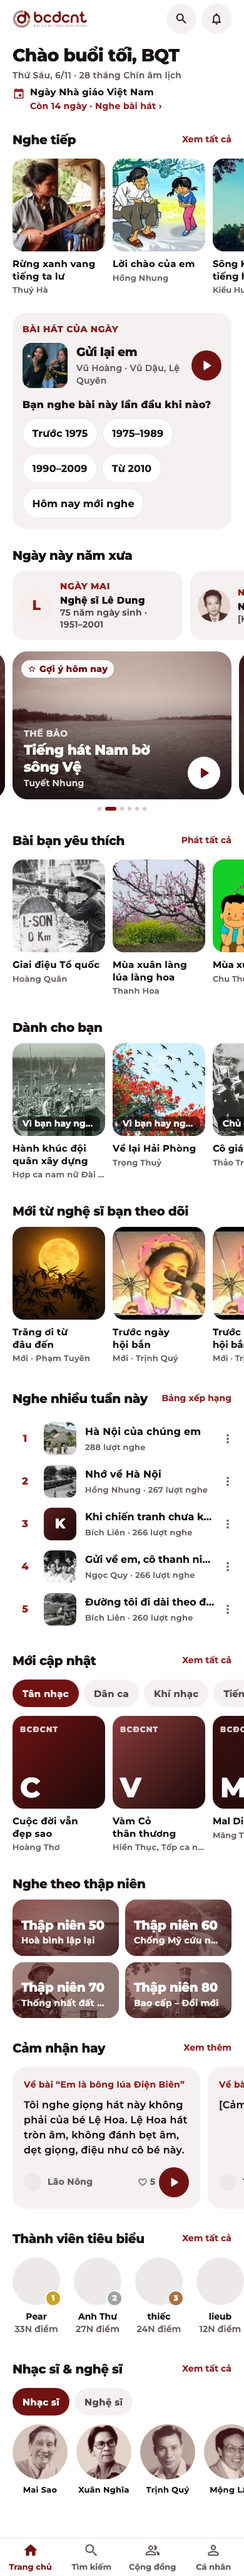
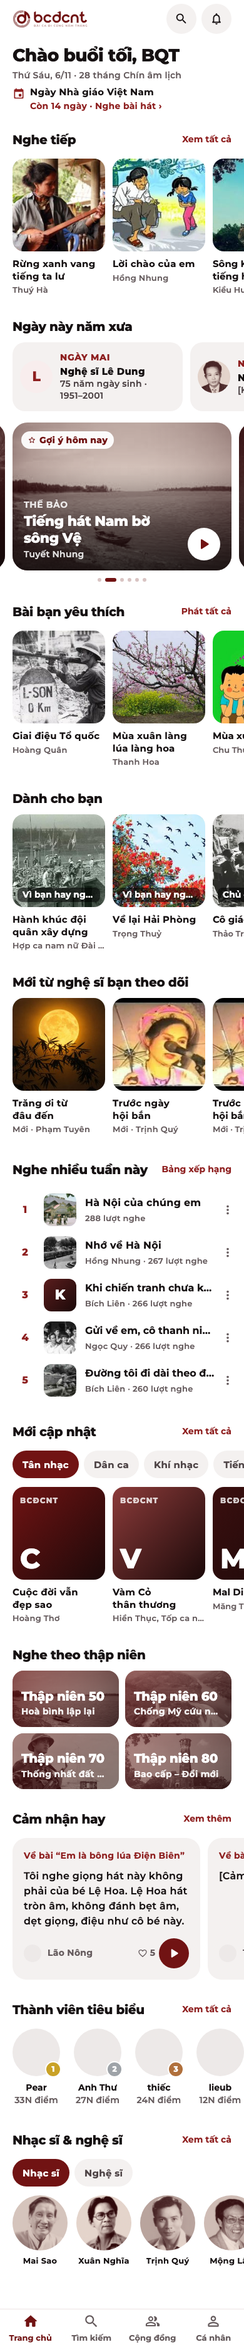
feat(app): bỏ hẳn "Bài hát của ngày"
- Trang chủ: xoá thẻ Bài hát của ngày (câu hỏi trắc nghiệm giống nhau cho mọi bài, 2 lượt trả lời trên 184 câu hỏi)
- Thông báo: bỏ topic daily_song và công tắc trong Cài đặt; máy đã đăng ký được huỷ đăng ký một lần
- Canvas: Trang chủ không còn thẻ (bản 20)

diff --git a/design/canvas/project/Main.dc.html b/design/canvas/project/Main.dc.html
@@ -11,7 +11,7 @@
 <link href="https://fonts.googleapis.com/css2?family=Montserrat:wght@500;600;700;800&amp;display=swap" rel="stylesheet">
 <style>body{margin:0}a{color:#8E1F1F;text-decoration:none}</style>
 </helmet>
-<div style="width: 390px; height: 4109px; background: #FFFFFF; font-family: Montserrat, sans-serif; line-height: 1.22; color: #161112; display: flex; flex-direction: column; overflow: hidden">
+<div style="width: 390px; height: 3744px; background: #FFFFFF; font-family: Montserrat, sans-serif; line-height: 1.22; color: #161112; display: flex; flex-direction: column; overflow: hidden">
 <!-- BrandTint duotone (lib/widgets/ui.dart): dark #2E080A -> light #F6E8DE by luminance -->
 <svg width="0" height="0" aria-hidden="true" style="position: absolute"><filter id="brandTint" color-interpolation-filters="sRGB"><feColorMatrix type="matrix" values="0.1667 0.5609 0.0566 0 0.1804  0.1868 0.6283 0.0634 0 0.0314  0.1767 0.5946 0.0600 0 0.0392  0 0 0 1 0"></feColorMatrix></filter></svg>
 <!-- Header: logo 120x30 + two 48pt round buttons -->
@@ -24,8 +24,6 @@
 <div style="height: 68px; box-sizing: border-box; padding: 18px 12px 10px 20px; display: flex; align-items: center; flex-shrink: 0"><h2 style="margin: 0; flex: 1; font-size: 20px; line-height: 24px; font-weight: 800; letter-spacing: -0.4px; color: #161112">Nghe tiếp</h2><a href="DanhSach.dc.html" style="height: 40px; padding: 0 8px; display: flex; align-items: center; font-size: 14px; font-weight: 700; color: #8E1F1F; text-decoration: none">Xem tất cả</a></div>
 <div style="height: 226px; display: flex; gap: 12px; padding: 0 20px; overflow: hidden; flex-shrink: 0"><a href="BaiHat.dc.html" style="width: 148px; flex-shrink: 0; display: flex; flex-direction: column; text-decoration: none; color: #161112"><span style="width: 148px; height: 148px; border-radius: 18px; overflow: hidden; position: relative; display: block; background: #EDE9E8"><img src="/_blob/eff02e07bb09eaa1645c9c7b7b91eb61" alt="" style="width: 148px; height: 148px; object-fit: cover; display: block"></span><span style="margin-top: 10px; font-size: 15px; line-height: 19.5px; font-weight: 700; color: #161112; display: -webkit-box; -webkit-line-clamp: 2; -webkit-box-orient: vertical; overflow: hidden; letter-spacing: 0.29px">Rừng xanh vang tiếng ta&nbsp;lư</span><span style="margin-top: 4.25px; font-size: 13px; line-height: 16px; font-weight: 600; color: #665C5E; white-space: nowrap; overflow: hidden; text-overflow: ellipsis; letter-spacing: 0.25px">Thuý Hà</span></a><a href="BaiHat.dc.html" style="width: 148px; flex-shrink: 0; display: flex; flex-direction: column; text-decoration: none; color: #161112"><span style="width: 148px; height: 148px; border-radius: 18px; overflow: hidden; position: relative; display: block; background: #EDE9E8"><img src="/_blob/d89999802612c9b1d0f6b1f73f6a34d9" alt="" style="width: 148px; height: 148px; object-fit: cover; display: block"></span><span style="margin-top: 10px; font-size: 15px; line-height: 19.5px; font-weight: 700; color: #161112; display: -webkit-box; -webkit-line-clamp: 2; -webkit-box-orient: vertical; overflow: hidden; letter-spacing: 0.25px">Lời chào của&nbsp;em</span><span style="margin-top: 4.25px; font-size: 13px; line-height: 16px; font-weight: 600; color: #665C5E; white-space: nowrap; overflow: hidden; text-overflow: ellipsis; letter-spacing: 0.28px">Hồng Nhung</span></a><a href="BaiHat.dc.html" style="width: 148px; flex-shrink: 0; display: flex; flex-direction: column; text-decoration: none; color: #161112"><span style="width: 148px; height: 148px; border-radius: 18px; overflow: hidden; position: relative; display: block; background: #EDE9E8"><img src="/_blob/fa0fa31512004cd35b83cd21cca5b844" alt="" style="width: 148px; height: 148px; object-fit: cover; display: block"></span><span style="margin-top: 10px; font-size: 15px; line-height: 19.5px; font-weight: 700; color: #161112; display: -webkit-box; -webkit-line-clamp: 2; -webkit-box-orient: vertical; overflow: hidden">Sông Kôn tiếng&nbsp;hát</span><span style="margin-top: 4.25px; font-size: 13px; line-height: 16px; font-weight: 600; color: #665C5E; white-space: nowrap; overflow: hidden; text-overflow: ellipsis">Kiều Hưng</span></a></div>
 
-<!-- Bài hát của ngày (SongOfDayCard) -->
-<div style="margin: 20px 20px 0 20px; height: 345px; box-sizing: border-box; padding: 16px 16px 17px 16px; background: #F4F1F0; border-radius: 22px; display: flex; flex-direction: column; flex-shrink: 0"><div style="font-size: 14px; line-height: 20px; font-weight: 800; letter-spacing: 0.6px; color: #8E1F1F">BÀI HÁT CỦA NGÀY</div><div style="margin-top: 12px; height: 72px; display: flex; align-items: center"><a href="BaiHat.dc.html" style="flex: 1; min-width: 0; display: flex; align-items: center; text-decoration: none"><img src="/_blob/9ebae5b5084fa9674a95c924f72b05b1" alt="" style="width: 72px; height: 72px; border-radius: 14px; object-fit: cover; flex-shrink: 0"><span style="margin-left: 14px; flex: 1; min-width: 0; display: flex; flex-direction: column"><span style="font-size: 19px; line-height: 23px; font-weight: 800; letter-spacing: -0.38px; color: #161112; display: -webkit-box; -webkit-line-clamp: 2; -webkit-box-orient: vertical; overflow: hidden">Gửi lại em</span><span style="margin-top: 4px; font-size: 14px; line-height: 20px; font-weight: 600; color: #665C5E; display: -webkit-box; -webkit-line-clamp: 2; -webkit-box-orient: vertical; overflow: hidden; letter-spacing: 0.2px">Vũ Hoàng · Vũ Dậu, Lệ Quyên</span></span></a><button aria-label="Nghe Gửi lại em" style="width: 48px; height: 48px; flex-shrink: 0; padding: 0; border: none; border-radius: 24px; background: #711313; display: flex; align-items: center; justify-content: center"><svg width="28" height="28" viewBox="0 0 24 24" fill="#FFFFFF" aria-hidden="true"><path d="M8 6.82v10.36c0 .79.87 1.27 1.54.84l8.14-5.18c.62-.39.62-1.29 0-1.69L9.54 5.98C8.87 5.55 8 6.03 8 6.82z"></path></svg></button></div><div style="margin-top: 16px; font-size: 16px; line-height: 22px; font-weight: 800; color: #161112; letter-spacing: 0.25px">Bạn nghe bài này lần đầu khi nào?</div><div style="margin-top: 10px; display: flex; flex-wrap: wrap; gap: 8px"><button style="height: 48px; padding: 0 14.5px; border-radius: 24px; border: 1.5px solid #ECE4E4; background: #FFFFFF; font-family: Montserrat, sans-serif; font-size: 16px; font-weight: 700; color: #161112; white-space: nowrap; letter-spacing: 0.1px">Trước 1975</button><button style="height: 48px; padding: 0 14.5px; border-radius: 24px; border: 1.5px solid #ECE4E4; background: #FFFFFF; font-family: Montserrat, sans-serif; font-size: 16px; font-weight: 700; color: #161112; white-space: nowrap; letter-spacing: 0.17px">1975–1989</button><button style="height: 48px; padding: 0 14.5px; border-radius: 24px; border: 1.5px solid #ECE4E4; background: #FFFFFF; font-family: Montserrat, sans-serif; font-size: 16px; font-weight: 700; color: #161112; white-space: nowrap; letter-spacing: 0.17px">1990–2009</button><button style="height: 48px; padding: 0 14.5px; border-radius: 24px; border: 1.5px solid #ECE4E4; background: #FFFFFF; font-family: Montserrat, sans-serif; font-size: 16px; font-weight: 700; color: #161112; white-space: nowrap; letter-spacing: 0.07px">Từ 2010</button><button style="height: 48px; padding: 0 14.5px; border-radius: 24px; border: 1.5px solid #ECE4E4; background: #FFFFFF; font-family: Montserrat, sans-serif; font-size: 16px; font-weight: 700; color: #161112; white-space: nowrap; letter-spacing: 0.22px">Hôm nay mới nghe</button></div></div>
 
 <!-- Ngày này năm xưa (AnniversaryRail) -->
 <div style="height: 67px; box-sizing: border-box; padding: 28px 12px 10px 20px; flex-shrink: 0"><h2 style="margin: 0; font-size: 20px; line-height: 29px; font-weight: 800; letter-spacing: -0.4px; color: #161112; white-space: nowrap; overflow: hidden; text-overflow: ellipsis">Ngày này năm xưa</h2></div><div style="height: 110px; display: flex; gap: 12px; padding: 0 20px; overflow: hidden; flex-shrink: 0"><a href="NgheSi.dc.html" style="width: 272px; height: 110px; flex-shrink: 0; box-sizing: border-box; padding: 12px; border-radius: 20px; background: #F4F1F0; display: flex; align-items: center; text-decoration: none"><span style="width: 52px; height: 52px; flex-shrink: 0; border-radius: 26px; background: #F8EDED; display: flex; align-items: center; justify-content: center; font-size: 22px; font-weight: 800; letter-spacing: -0.44px; color: #8E1F1F">L</span><span style="margin-left: 12px; flex: 1; min-width: 0; display: flex; flex-direction: column; padding-top: 1px"><span style="font-size: 14px; line-height: 17px; font-weight: 800; letter-spacing: 0.6px; color: #8E1F1F">NGÀY MAI</span><span style="margin-top: 4px; font-size: 15px; line-height: 19px; font-weight: 800; color: #161112; white-space: nowrap; overflow: hidden; text-overflow: ellipsis; letter-spacing: 0.29px">Nghệ sĩ Lê Dung</span><span style="margin-top: 1px; font-size: 14px; line-height: 19px; font-weight: 600; color: #4F4547; display: -webkit-box; -webkit-line-clamp: 2; -webkit-box-orient: vertical; overflow: hidden; letter-spacing: 0.23px">75 năm ngày sinh · <span style="white-space: nowrap; letter-spacing: 0.31px">1951–2001</span></span></span></a><a href="NgheSi.dc.html" style="width: 272px; height: 110px; flex-shrink: 0; box-sizing: border-box; padding: 12px; border-radius: 20px; background: #F4F1F0; display: flex; align-items: center; text-decoration: none"><img src="/_blob/c2818327d828e2852239165b0d2df4c7" alt="" style="width: 52px; height: 52px; flex-shrink: 0; border-radius: 26px; object-fit: cover; filter: url(#brandTint)"><span style="margin-left: 12px; flex: 1; min-width: 0; display: flex; flex-direction: column; padding-top: 1px"><span style="font-size: 14px; line-height: 17px; font-weight: 800; letter-spacing: 0.6px; color: #8E1F1F">NGÀY MAI</span><span style="margin-top: 4px; font-size: 15px; line-height: 19px; font-weight: 800; color: #161112; white-space: nowrap; overflow: hidden; text-overflow: ellipsis">Nhạc sĩ Hoàng Hiệp</span><span style="margin-top: 1px; font-size: 14px; line-height: 19px; font-weight: 600; color: #4F4547; display: -webkit-box; -webkit-line-clamp: 2; -webkit-box-orient: vertical; overflow: hidden">[Kỷ niệm]</span></span></a></div>
@@ -66,7 +64,7 @@
 <dc-import name="TabBar" active="home" hint-size="390px,61px"></dc-import>
 </div>
 </x-dc>
-<script type="text/x-dc" data-dc-script data-props='{"$preview":{"width":390,"height":4109}}'>
+<script type="text/x-dc" data-dc-script data-props='{"$preview":{"width":390,"height":3744}}'>
 class Component extends DCLogic {
 renderVals() {
 return {};

diff --git a/lib/services/push.dart b/lib/services/push.dart
@@ -28,9 +28,7 @@ class PushService {
   PushService._();
   static final instance = PushService._();
 
-  static const dailySongTopic = 'daily_song';
   static const _kAskedAt = 'push_asked_at';
-  static const _kDailySong = 'push_daily_song';
 
   bool _ready = false;
   String? _token;
@@ -92,8 +90,15 @@ class PushService {
       return;
     }
     await _register();
-    if (await dailySongEnabled()) {
-      try { await FirebaseMessaging.instance.subscribeToTopic(dailySongTopic); } catch (_) {}
+    // "Bài hát của ngày" (topic daily_song) was dropped in 2026-11. Older
+    // builds subscribed every install by default: take them off it, once.
+    final prefs = await SharedPreferences.getInstance();
+    if (prefs.getBool('push_daily_song_off') != true) {
+      try {
+        await FirebaseMessaging.instance.unsubscribeFromTopic('daily_song');
+        await prefs.setBool('push_daily_song_off', true);
+        await prefs.remove('push_daily_song');
+      } catch (_) {}
     }
   }
 
@@ -151,7 +156,7 @@ class PushService {
     final t = notificationRoute(data);
     if (t != null) {
       router.push(t.path, extra: t.extra);
-    } else if (data['action'] != 'daily_song') {
+    } else {
       router.push('/thong-bao');
     }
   }
@@ -190,22 +195,6 @@ class PushService {
     final ok = _allowed(s.authorizationStatus);
     if (ok) await _start();
     return ok;
-  }
-
-  // ── "Bài hát của ngày" (topic, works without an account) ────────────
-
-  Future<bool> dailySongEnabled() async => (await SharedPreferences.getInstance()).getBool(_kDailySong) ?? true;
-
-  Future<void> setDailySong(bool on) async {
-    (await SharedPreferences.getInstance()).setBool(_kDailySong, on);
-    if (!_ready || _token == null) return;
-    try {
-      if (on) {
-        await FirebaseMessaging.instance.subscribeToTopic(dailySongTopic);
-      } else {
-        await FirebaseMessaging.instance.unsubscribeFromTopic(dailySongTopic);
-      }
-    } catch (_) {}
   }
 
   /// Red number on the app icon; cleared when Thông báo is opened.

diff --git a/lib/widgets/push_settings.dart b/lib/widgets/push_settings.dart
@@ -7,8 +7,8 @@ import '../services/auth.dart';
 import '../services/push.dart';
 import '../services/friendly_error.dart';
 
-/// Cài đặt → Thông báo điện thoại: system permission, "Bài hát của ngày"
-/// (guests too), and for members one switch per kind + quiet hours
+/// Cài đặt → Thông báo điện thoại: system permission, and for members one
+/// switch per kind + quiet hours
 /// (user.push_prefs on the API).
 class PushSettings extends StatefulWidget {
   const PushSettings({super.key});
@@ -20,7 +20,6 @@ class PushSettings extends StatefulWidget {
 class _PushSettingsState extends State<PushSettings> with WidgetsBindingObserver {
   AuthorizationStatus? _status;
   bool _statusLoaded = false; // false until the first status() returns
-  bool _daily = true;
   Map<String, dynamic>? _prefs; // null until loaded (or API not ready yet)
   bool _prefsFailed = false;
 
@@ -69,8 +68,6 @@ class _PushSettingsState extends State<PushSettings> with WidgetsBindingObserver
 
   Future<void> _load() async {
     await _loadStatus();
-    final daily = await PushService.instance.dailySongEnabled();
-    if (mounted) setState(() => _daily = daily);
     if (!mounted) return;
     final auth = context.read<AuthProvider>();
     if (!auth.isAuthenticated) return;
@@ -120,10 +117,6 @@ class _PushSettingsState extends State<PushSettings> with WidgetsBindingObserver
     return Column(crossAxisAlignment: CrossAxisAlignment.stretch, children: [
       _permissionCard(),
       const SizedBox(height: 8),
-      _row(Icons.music_note_outlined, 'Bài hát của ngày', 'Vài buổi tối mỗi tuần và các ngày lễ lớn', _daily, (v) {
-        setState(() => _daily = v);
-        PushService.instance.setDailySong(v);
-      }),
       if (auth.isAuthenticated) ...[
         if (_prefs == null && !_prefsFailed)
           Padding(padding: const EdgeInsets.all(12), child: Center(child: SizedBox(width: 20, height: 20, child: CircularProgressIndicator(strokeWidth: 2, color: AppColors.accentFg))))

diff --git a/lib/screens/home_mobile_screen.dart b/lib/screens/home_mobile_screen.dart
@@ -12,7 +12,6 @@ import '../widgets/song_row.dart';
 import '../widgets/ui.dart';
 import '../widgets/anniversary_rail.dart';
 import '../services/lunar.dart';
-import '../widgets/song_of_day_card.dart';
 import '../main.dart' show TabReselect;
 
 export '../widgets/song_row.dart' show playOrOpen;
@@ -588,10 +587,7 @@ class _HomeMobileScreenState extends State<HomeMobileScreen> {
                 child: PillButton(label: 'Mở bài đã tải về', icon: Icons.download_done_rounded, primary: false, onTap: () => context.push('/da-tai-ve')),
               ),
             ],
-            // Daily ritual: today's song (same as the push) + one-tap question.
-            SongOfDayCard(key: ValueKey('sotd-$_dayKey-$_refreshTick')),
-            // Birthdays / anniversaries first: the same story the daily push
-            // tells, so a push about Lê Dung lands on Lê Dung.
+            // Birthdays / anniversaries first.
             AnniversaryRail(key: ValueKey('anniv-$_dayKey-$_refreshTick')),
             const SizedBox(height: 18),
             if (_loading)
